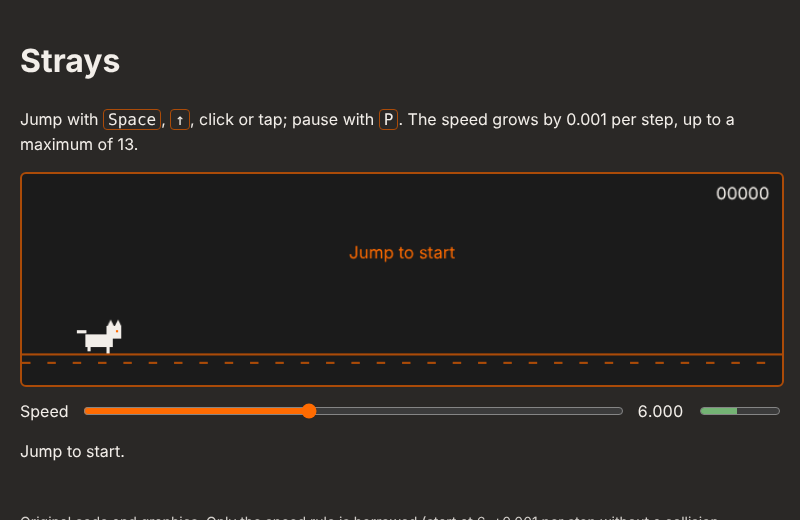
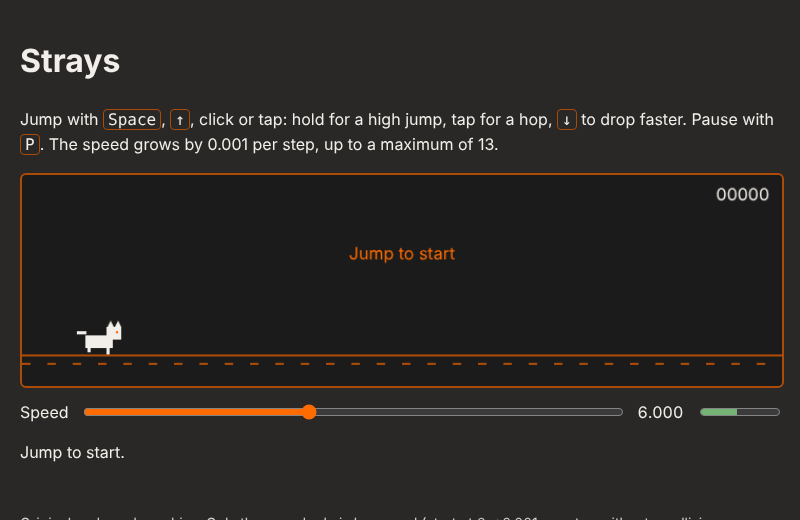
Add variable jump height and fast fall (spec 07)
Holding Space, arrow up or the pointer gives the full jump; letting go
while rising doubles gravity, so a tap is a low hop. Arrow down in the
air triples gravity until landing. Key repeats are ignored, so holding
the key through a landing does not jump again, and releasing outside
the playfield or losing window focus counts as letting go.

Measured in the behaviour test: tap 60 px, held jump 95 px, landing
100 ms sooner with arrow down.

Claude-Session: https://claude.ai/code/session_01WwwZG2Szd8R3ngBsM1TLoc

diff --git a/game.js b/game.js
@@ -13,6 +13,8 @@
   const GROUND_Y = 170;
   const GRAVITY = 0.6;
   const JUMP_VELOCITY = -11;
+  const SHORT_JUMP_GRAVITY = 2; // factor once the jump input is released while rising
+  const FAST_FALL_GRAVITY = 3; // factor after ↓ in the air, until landing
   const COLORS = { cat: '#f2eee9', box: '#c98a4b', edge: '#ab4b08', ground: '#ab4b08', text: '#f2eee9', accent: '#ff6b01', dim: 'rgba(27, 27, 27, 0.6)' };
   const HIGH_SCORE_KEY = 'strays.highScore';
 
@@ -30,7 +32,8 @@
     score: 0,
     highScore: loadHighScore(),
     newRecord: false,
-    cat: { x: 60, y: GROUND_Y, vy: 0, width: 34, height: 26 },
+    cat: { x: 60, y: GROUND_Y, vy: 0, width: 34, height: 26, fastFall: false },
+    jumpHeld: false, // Space, ↑ or a pointer is held down
     boxes: [],
     distanceToNext: 0,
     groundOffset: 0,
@@ -46,6 +49,7 @@
     state.distanceToNext = 300;
     state.cat.y = GROUND_Y;
     state.cat.vy = 0;
+    state.cat.fastFall = false;
     announce('Running.');
   }
 
@@ -61,11 +65,22 @@
     if (state.cat.y >= GROUND_Y) state.cat.vy = JUMP_VELOCITY;
   }
 
+  function fastFall() {
+    if (state.phase === 'running' && state.cat.y < GROUND_Y) state.cat.fastFall = true;
+  }
+
   function step() {
     const cat = state.cat;
-    cat.vy += GRAVITY;
+    // Variable jump height: letting go while rising pulls the cat down sooner
+    let gravity = GRAVITY;
+    if (cat.fastFall) gravity *= FAST_FALL_GRAVITY;
+    else if (cat.vy < 0 && !state.jumpHeld) gravity *= SHORT_JUMP_GRAVITY;
+    cat.vy += gravity;
     cat.y = Math.min(GROUND_Y, cat.y + cat.vy);
-    if (cat.y === GROUND_Y) cat.vy = 0;
+    if (cat.y === GROUND_Y) {
+      cat.vy = 0;
+      cat.fastFall = false;
+    }
 
     for (const box of state.boxes) box.x -= state.speed;
     state.boxes = state.boxes.filter((box) => box.x + box.width > 0);
@@ -227,21 +242,39 @@
     if (event.target === slider) return;
     if (event.code === 'Space' || event.code === 'ArrowUp') {
       event.preventDefault();
+      // A held key repeats; it must not jump again on landing
+      if (event.repeat) return;
+      state.jumpHeld = true;
       jump();
     }
+    if (event.code === 'ArrowDown') {
+      event.preventDefault();
+      fastFall();
+    }
+  });
+  document.addEventListener('keyup', (event) => {
+    if (event.code === 'Space' || event.code === 'ArrowUp') state.jumpHeld = false;
   });
   playfield.addEventListener('pointerdown', (event) => {
     event.preventDefault();
     // preventScroll: focusing a partly hidden canvas must not scroll the page
     playfield.focus({ preventScroll: true });
+    state.jumpHeld = true;
     jump();
   });
+  // On the window, so letting go outside the playfield also counts
+  const release = () => { state.jumpHeld = false; };
+  window.addEventListener('pointerup', release);
+  window.addEventListener('pointercancel', release);
 
   // Pause automatically when the player looks away; only they decide when to go on
   document.addEventListener('visibilitychange', () => {
     if (document.hidden) pause();
   });
-  window.addEventListener('blur', pause);
+  window.addEventListener('blur', () => {
+    release(); // the key-up may never arrive once focus is gone
+    pause();
+  });
 
   // --- Main loop with a fixed 60 Hz tick ---
   let lastTime = performance.now();
@@ -281,6 +314,7 @@
   window.strays = {
     get speed() { return state.speed; },
     get phase() { return state.phase; },
+    get catY() { return state.cat.y; },
     get score() { return Math.floor(state.score); },
     get highScore() { return state.highScore; },
   };

diff --git a/index.html b/index.html
@@ -12,8 +12,9 @@
     <main>
       <h1>Strays</h1>
       <p>
-        Jump with <kbd>Space</kbd>, <kbd>↑</kbd>, click or tap; pause with <kbd>P</kbd>. The speed
-        grows by 0.001 per step, up to a maximum of 13.
+        Jump with <kbd>Space</kbd>, <kbd>↑</kbd>, click or tap: hold for a high jump, tap for a hop,
+        <kbd>↓</kbd> to drop faster. Pause with <kbd>P</kbd>. The speed grows by 0.001 per step, up to
+        a maximum of 13.
       </p>
 
       <canvas id="playfield" width="720" height="200" tabindex="0"

diff --git a/README.md b/README.md
@@ -32,14 +32,15 @@ No dependencies, no build. Start any static server in this folder, e.g.:
 python3 -m http.server 8000
 ```
 
-Then open <http://localhost:8000/>. Jump with Space, arrow up, click or tap; pause with P.
+Then open <http://localhost:8000/>. Jump with Space, arrow up, click or tap: hold for a high
+jump, tap for a hop, arrow down to drop faster. Pause with P.
 The game also pauses by itself when you switch tabs.
 
 ## Test
 
 `test/test-game.mjs` checks the behaviour with Playwright (increase per second, freeze on
-collision, restart at 6, cap at 13, high score kept across a reload and without storage, no speed growth while paused)
-and saves screenshots:
+collision, restart at 6, cap at 13, high score kept across a reload and without storage, no speed growth while paused,
+hop lower than a held jump, faster landing with arrow down) and saves screenshots:
 
 ```bash
 npm i playwright-core

diff --git a/specs/07-jump-control.md b/specs/07-jump-control.md
@@ -38,10 +38,12 @@ None. Jump physics are freely designed (`SPEC.md`).
 
 ## Acceptance criteria
 
-- [ ] A 50 ms key press gives a lower jump than a 400 ms press (`window.strays.catY` exposed;
+- [x] A 50 ms key press gives a lower jump than a 400 ms press (`window.strays.catY` exposed;
       the peak is the smallest `catY` during the jump).
-- [ ] ↓ in the air shortens the time until landing.
-- [ ] The tallest planned obstacle (08) is clearable with a full jump at speed 13.
+- [x] ↓ in the air shortens the time until landing.
+- [ ] The tallest planned obstacle (08) is clearable with a full jump at speed 13. To be checked
+      with 08; measured so far: a tap reaches 60 px, a full jump 95 px, the planned box stack is at
+      most 46 px high.
 
 ## Out of scope
 

diff --git a/specs/README.md b/specs/README.md
@@ -42,7 +42,7 @@ bridge for the borrowed rule; everything in this folder is an original design.
 | 04 | [Effects](04-juice.md) | Polish | planned |
 | 05 | [Day and night](05-day-night.md) | Polish | planned |
 | 06 | [High score](06-highscore.md) | Gameplay | done |
-| 07 | [Jump control](07-jump-control.md) | Gameplay | planned |
+| 07 | [Jump control](07-jump-control.md) | Gameplay | done |
 | 08 | [More obstacles](08-obstacles.md) | Gameplay | planned |
 | 09 | [Treats](09-treats.md) | Gameplay | planned |
 
